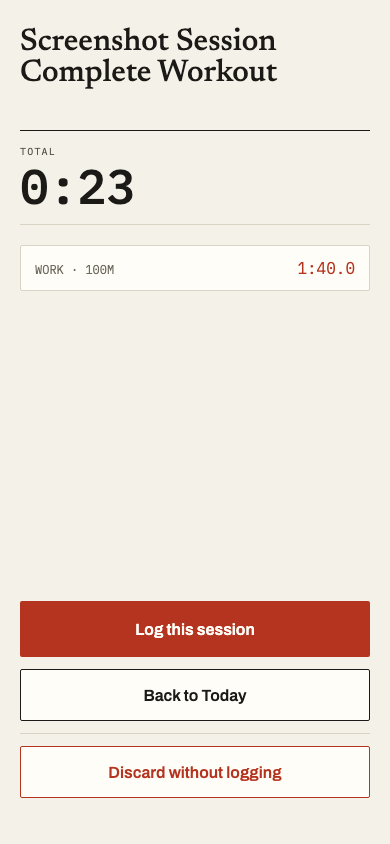
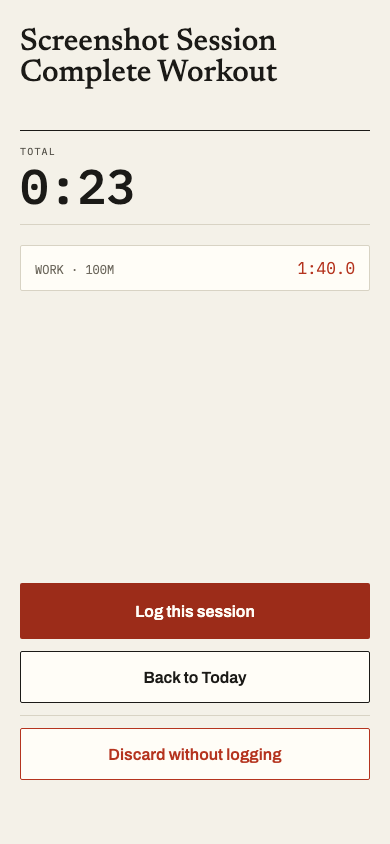
fix: the countdown and the finish line stop scrolling too
Task 8 of the connected-revamp closes the last two instances of the 18px
Task 7's fix round root-caused on `.timer-screen`: `.app-shell` reserves
`var(--tap)` for a tab bar these routes never render, while
`.countdown-screen` and `.session-complete-screen` subtracted only their
own 26px of `.screen` padding — which `box-sizing: border-box` already
counts inside the min-height, so the 26px was a double count. Both base
rules SWAP the term rather than appending to it, the same shape (and for
the same reason) as `.timer-screen`'s own fix; both landscape halves are
untouched, keeping the appended formula they were measured on.

Measured, not inferred. Pre-fix both screens: `scrollHeight` 862 vs
`clientHeight` 844 at 390×844. Post-fix: 844 = 844, zero scroll. Two new
pins carry it — a dedicated countdown-portrait test and one assertion
folded into the existing completion test (already standing on
`/session/complete` at the default viewport). Both were mutated back to
`- 26px` and reproduced 862 exactly, then restored green.

Captures: `countdown.png`, `session-complete.png` and
`session-complete-landscape.png` re-shot (all three were stale on every
branch — the landscape one by 66k pixels, and shooting it against the
PRE-fix CSS produced a byte-identical image, proving its drift predates
this change and is not caused by it). The retired
`connected-pane-timer*.png` pair is deleted: Task 2's inventory retired
the pane, its fixture went with it, and the PNGs were the last thing
[…]

Changed region(s): [[0.0308, 0.6777, 0.9538, 0.9242]]

diff --git a/app/src/index.css b/app/src/index.css
@@ -3463,23 +3463,29 @@ button:disabled {
      route (AppRoutes.tsx's hidesTabBar), so the viewport minus this
      screen's own safe-area padding is genuinely all there is to fill.
 
-     PORTRAIT STILL OVERFLOWS BY 18px HERE, measured at 390×844 during fix
-     round 1 (`scrollHeight` 862 vs `clientHeight` 844, this box 818px):
-     the bar is hidden but `.app-shell` still RESERVES `var(--tap)` for it
-     (index.css:398), and `box-sizing: border-box` already counts the 26px
-     subtracted above inside the min-height. `.timer-screen`'s own comment
-     carries the full derivation and the fix (swap the `- 26px` term for
-     `- var(--tap)`); this rule and `.session-complete-screen`'s were left
-     on the pre-fix formula deliberately — Task 8 owns `countdown.png`. */
+     PORTRAIT OVERFLOWED BY 18px HERE until Task 8, measured at 390×844
+     during Task 7's fix round (`scrollHeight` 862 vs `clientHeight` 844,
+     this box 818px): the bar is hidden but `.app-shell` still RESERVES
+     `var(--tap)` for it (index.css:398), and `box-sizing: border-box`
+     already counts the 26px subtracted here inside the min-height — a
+     double count. `.timer-screen`'s own comment carries the full
+     derivation; the fix is the same one, SWAPPING the `- 26px` term for
+     `- var(--tap)` rather than appending to it (appending closes the
+     scroll but leaves 26px of dead space at the foot). Re-measured after
+     on this rule's own screen: `scrollHeight` 844 = `clientHeight` 844.
+     Landscape is unaffected — its own `@media` block below overrides
+     `min-height` outright and keeps its own measured formula. */
   min-height: calc(
     100dvh - env(safe-area-inset-top, 0px) - env(safe-area-inset-bottom, 0px) -
-      26px
+      var(--tap)
   );
 }
 
 /* Task 5 (final-review triage item, carried from Task 4's own flag):
-   `.countdown-screen`'s base `min-height` above shares `.timer-screen`'s
-   PRE-Task-4-fix formula — it never accounts for `.app-shell`'s own
+   `.countdown-screen`'s base `min-height` above shared `.timer-screen`'s
+   PRE-Task-4-fix formula at the time (Task 8 has since swapped its
+   `- 26px` term the same way; this landscape half keeps the appended
+   shape it was measured on) — it never accounts for `.app-shell`'s own
    `padding-bottom: calc(var(--tap) + safe-area-bottom)`, reserved for the
    fixed tab bar's height on every route even though `hidesTabBar`
    (AppRoutes.tsx) never renders one here. Measured live at 844×420 (the
@@ -4735,32 +4741,33 @@ button:disabled {
      `.complete-back`'s `margin-top: auto` to the bottom of the viewport
      rather than right under the actuals list.
 
-     NO LONGER "the same as `.timer-screen` above", which this comment used
-     to say: fix round 1 swapped that rule's `- 26px` for `- var(--tap)`
-     after measuring 18px of dead portrait scroll (see its own comment for
-     the derivation). This formula is the pre-fix one, and by the same
-     arithmetic — `.app-shell` reserves `var(--tap)` for a bar this route
-     never renders, and `box-sizing: border-box` already counts the 26px of
-     `.screen` padding inside the min-height — this screen and
-     `.countdown-screen` (its own base rule above) both still carry the
-     identical 18px in PORTRAIT — MEASURED live at 390×844, not inferred:
-     `scrollHeight` 862 vs `clientHeight` 844 on both, each screen's own
-     `main` box 818px, exactly the timer's own before-numbers. Both were
-     left alone deliberately: fix round 1's brief is the phone timer's own
-     portrait budget, and re-shooting `countdown.png`/
-     `session-complete*.png` belongs to Task 8, which owns those captures.
-     Flagged in the fix-round report for Task 8, not fixed here. */
+     The same formula as `.timer-screen` above, again — and for the same
+     reason it changed there. Task 7's fix round swapped that rule's
+     `- 26px` for `- var(--tap)` after measuring 18px of dead portrait
+     scroll; this screen and `.countdown-screen` were measured live at
+     390×844 in the same session and carried the identical 18px
+     (`scrollHeight` 862 vs `clientHeight` 844 on both, each screen's own
+     `main` box 818px), left on the pre-fix formula only because Task 8
+     owns `countdown.png`/`session-complete*.png`. Task 8 took the same
+     swap: `.app-shell` reserves `var(--tap)` for a tab bar this route
+     never renders (index.css:398), and `box-sizing: border-box` already
+     counts the 26px of `.screen` padding INSIDE the min-height, so the
+     26px was a double count and the reserved strip is the real term.
+     Re-measured after: `scrollHeight` 844 = `clientHeight` 844. */
   min-height: calc(
     100dvh - env(safe-area-inset-top, 0px) - env(safe-area-inset-bottom, 0px) -
-      26px
+      var(--tap)
   );
 }
 
 /* Task 5: the identical fix as `.countdown-screen`'s own landscape rule
-   above, for the identical reason — same base formula, same missing
-   `.app-shell` tab-bar padding, same 844×420 measurement (438 vs 420
-   before, 414 vs 420 after). See that rule's comment for the full
-   derivation; not repeated verbatim here.
+   above, for the identical reason — same missing `.app-shell` tab-bar
+   padding, same 844×420 measurement (438 vs 420 before, 414 vs 420
+   after). See that rule's comment for the full derivation; not repeated
+   verbatim here. (Task 8 later swapped the `- 26px` out of BOTH screens'
+   PORTRAIT base rules; these landscape halves keep the appended shape
+   they were measured on, exactly as `.timer-screen`'s own landscape half
+   does.)
 
    Task 1 (ui-fix round) re-measurement: the two-button half-width row
    (`.complete-actions`, pre-Task-1) became a full-width L1/L2 stack — 56 +

diff --git a/app/e2e/session.spec.ts b/app/e2e/session.spec.ts
@@ -253,6 +253,25 @@ test.describe("Phase 6B Task 4: session completion + resilience", () => {
     const split = await page.locator(".complete-actual-value").textContent();
     expect(split).toMatch(/^\d+:\d{2}\.\d$/);
 
+    // Connected-revamp Task 8: `.session-complete-screen` carried the same
+    // 18px of dead portrait scroll `.timer-screen` did (measured live in
+    // Task 7's fix round at 390×844 — `scrollHeight` 862 vs `clientHeight`
+    // 844, this screen's own box 818px): `.app-shell` reserves
+    // `var(--tap)` for a tab bar this route never renders, while the rule
+    // subtracted only its own 26px of `.screen` padding, which
+    // `box-sizing: border-box` already counts inside the min-height.
+    // Pinned here rather than in a test of its own — this test already
+    // stands on the completed screen at the default 390×844 viewport, and
+    // the assertion is the same document-level one the phone timer's own
+    // portrait pin uses.
+    const completeOverflow = await page.evaluate(() => ({
+      scrollHeight: document.documentElement.scrollHeight,
+      clientHeight: document.documentElement.clientHeight,
+    }));
+    expect(completeOverflow.scrollHeight).toBeLessThanOrEqual(
+      completeOverflow.clientHeight,
+    );
+
     // Completed-run protection (Today.tsx's amended stale-discard rule):
     // backdate the draft's own `createdAt` so it LOOKS stale by the
     // existing 24h rule, then navigate to Today and prove it survives —
@@ -509,6 +528,44 @@ test.describe("Phase 6B Task 4: session completion + resilience", () => {
       clientHeight: document.documentElement.clientHeight,
     }));
     expect(overflow.scrollHeight).toBeLessThanOrEqual(overflow.clientHeight);
+
+    await cleanupByTitle(page, title);
+  });
+
+  // Task 8: the SAME 18px, on the screen the rower sees one tap earlier.
+  // `.countdown-screen` shared `.timer-screen`'s pre-fix `min-height`
+  // formula and was measured carrying the identical overflow at 390×844
+  // in Task 7's fix round (`scrollHeight` 862 vs `clientHeight` 844, its
+  // own box 818px) — left unfixed there because Task 8 owns
+  // `countdown.png`. Its landscape half was already fixed (Task 5) and
+  // already pinned (design.spec.ts's own 844×420 countdown check);
+  // portrait had no pin at all, which is why it survived two waves.
+  test("the countdown has no dead vertical scroll in portrait (390×844)", async ({
+    page,
+  }) => {
+    const title = "Countdown Budget";
+    await signInViaBackdoor(page, {
+      email: "session-countdown-budget@e2e.test",
+      name: "Countdown Budget Tester",
+    });
+    await setBaselines(page, { k2Seconds: 100, k6Seconds: 120 });
+    await importBulk(
+      page,
+      [`${title} | AN | easy | 1`, "w 1:00 6k", "w 0:30 6k"].join("\n"),
+    );
+
+    // startFromLibrary lands ON the countdown (Start is the one door) — no
+    // skip here, this screen IS the subject.
+    await startFromLibrary(page, title);
+    await expect(page.getByText("GET ON THE HANDLE")).toBeVisible();
+
+    const countdownOverflow = await page.evaluate(() => ({
+      scrollHeight: document.documentElement.scrollHeight,
+      clientHeight: document.documentElement.clientHeight,
+    }));
+    expect(countdownOverflow.scrollHeight).toBeLessThanOrEqual(
+      countdownOverflow.clientHeight,
+    );
 
     await cleanupByTitle(page, title);
   });
